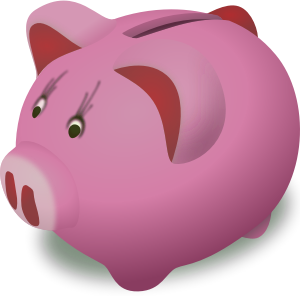
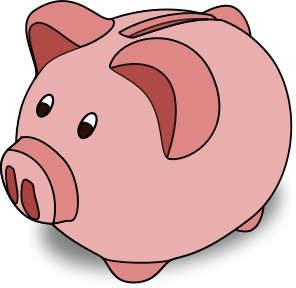
Styles for Piggy Bank

diff --git a/public/piggybank/index.html b/public/piggybank/index.html
@@ -22,8 +22,8 @@
         <img src="toonie.png" class="money" id="toonie" />
         <img src="loonie.png" class="money" id="loonie" />
         <img src="quarter.png" class="money" id="quarter" />
-        <img src="nickel.png" class="money" id="nickel" />
         <img src="dime.png" class="money" id="dime" />
+        <img src="nickel.png" class="money" id="nickel" />
         <img src="penny.png" class="money" id="penny" />
       </div>
 
@@ -35,7 +35,7 @@
       </div>
 
       <div class="information">
-        <p class="savingsinfo">You have saved $<span class="savings">0.00</span> so far.</p>
+        <p class="savingsinfo">You have saved <span class="savings">$0.00</span></p>
       </div>
     </div>
   </body>

diff --git a/public/piggybank/style.css b/public/piggybank/style.css
@@ -1,7 +1,55 @@
 body {
+  font-family: 'Arial';
+  background-color: #FFFF66;
+}
 
+.change {
+  width: 700px;
+  margin: auto;
+  padding-top: 20px;
+}
+
+.money {
+  padding: 2px;
+}
+
+.piggy {
+  width: 300px;
+}
+
+.bank {
+  padding-top: 50px;
+  width: 350px;
+  margin: auto;
+}
+
+.information {
+  width: 350px;
+  font-size: 27px;
+  margin: auto;
 }
 
 .savings {
-  width: 100px;
+  color: #FF6666;
+}
+
+.navigation {
+  font-size: 20px;
+  position: absolute;
+  top: 15px;
+  left: 10px;
+  word-spacing: 10px;
+}
+
+a:link {
+  color: #009999;
+}
+
+a:hover {
+  color: #000000;
+  background-color: #FFFFFF;
+}
+
+a:visited {
+  color: #FF6666;
 }

diff --git a/public/piggybank/scripts.js b/public/piggybank/scripts.js
@@ -12,7 +12,7 @@ $(document).ready(function() {
       playSound();
       coinType = ui.draggable.attr("id");
       calculateAmount(coinType);
-      $(".savings").html(totalAmount.toFixed(2));
+      $(".savings").html("$" + totalAmount.toFixed(2));
     }
 
   });
